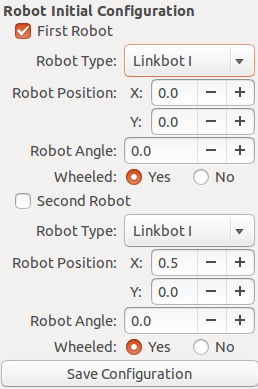
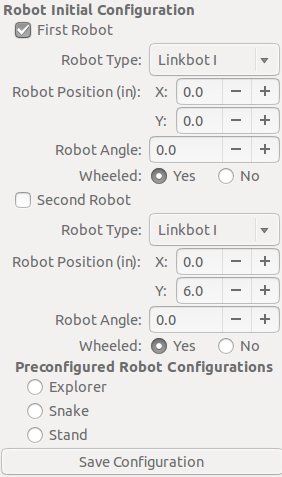
updated docs pdf

Changed region(s): [[0.0, 0.0, 1.0, 1.0]]

diff --git a/docs/robosim.tex b/docs/robosim.tex
@@ -29,16 +29,16 @@
 
 \section{Introduction}
 \texttt{RoboSim} is designed to test programs written to control Barobo Mobot
-and Linkbot modules within a simulated environment.  It has been designed to allow
-any Ch code which can control hardware Barobo robots to now control them from
-within a simulated environment making zero changes the code.  The RoboSim GUI allows
-users to change between hardware and simulated robots and position the robots
-in their initial position for simulation.
+and Linkbot modules within a simulated environment.  It has been designed to
+allow any Ch code which can control hardware Barobo robots to now control them
+from within a simulated environment making zero changes to the code.  The
+RoboSim GUI allows users to change between hardware and simulated robots and
+position the robots in their initial position for simulation.
 
 \section{RoboSim GUI}
 \label{sec:gui}
-The RoboSim gui, shown in Figure \ref{fig:gui}, allows users to configure their computer to run simulated robots
-in place of the hardware ones.
+The RoboSim GUI, shown in Figure \ref{fig:gui}, allows users to configure their
+computer to run simulated robots in place of the hardware ones.
 
 \begin{figure}[H]
 	\begin{center}
@@ -49,7 +49,8 @@ in place of the hardware ones.
 \end{figure}
 
 \subsection{Platform}
-This lets a user pick whether the output is sent to the hardware or simulated robots.
+This lets a user pick whether the output is sent to the hardware or simulated
+robots.
 \begin{figure}[H]
 	\begin{center}
 		\includegraphics[width=3in]{images/platform}
@@ -59,10 +60,11 @@ This lets a user pick whether the output is sent to the hardware or simulated ro
 \end{figure}
 
 \subsection{Robot Initial Configuration}
-To position the robots within the simulation, the user can select a few options which allow
-one or two robots to be positioned within the simulated scene.  The options presented provide
-the capability of many simple configurations to be tested.  For each of the robots within the scene,
-there are five options each of which are outlined below.
+To position the robots within the simulation, the user can select a few options
+which allow one or two robots to be positioned within the simulated scene.  The
+options presented provide the capability of many simple configurations to be
+tested.  For each of the robots within the scene, there are five options each of
+which are outlined below.
 \begin{figure}[H]
 	\begin{center}
 		\includegraphics[height=4in]{images/configuration}
@@ -75,9 +77,10 @@ Images for the Mobot and Linkbot showing the meaning of each of the options is
 shown to the right of the configuration dialog.
 
 \subsubsection{Robot Type}
-There are four options for robot type available.  Linkbot-I, Linkbot-L, Linkbot-T, and Mobot.
-The options are presented in a drop down menu as shown in Figure \ref{fig:type}.  Linkbot-T is
-a linkbot module with all three joints capable of rotating.
+There are four options for robot type available.  Linkbot-I, Linkbot-L,
+Linkbot-T, and Mobot.  The options are presented in a drop down menu as shown in
+Figure \ref{fig:type}.  Linkbot-T is a linkbot module with all three joints
+capable of rotating.
 
 \begin{figure}[H]
 	\begin{center}
@@ -91,33 +94,43 @@ a linkbot module with all three joints capable of rotating.
 Both x and y positions can be chosen independently for each robot.
 
 \subsubsection{Robot Angle}
-The rotation angle from the x-axis can be used for changing the orientation of the two robots
-respective to each other. 
+The rotation angle from the x-axis can be used for changing the orientation of
+the two robots respective to each other. 
 
 \subsubsection{Wheels}
-Since so many times the robots are run with wheels and a caster connected, a radio button is provided
-to build the robots with or without wheels.
+Since so many times the robots are run with wheels and a caster connected, a
+radio button is provided to build the robots with or without wheels.
 
 \subsubsection{Saving}
-The last step is to save the configuration so that Ch can load the information when running any
-of the Ch codes.
+The last step is to save the configuration so that Ch can load the information
+when running any of the Ch codes.
+
+\subsection{Preconfigured Robot Configurations}
+In addition to positioning two robots independently within the scene, three
+preconfigured options are available to users which represent common Linkbot
+configurations.
 
 \section{Running a Simulation}
-Once the simulation environment has been configured with the RoboSim GUI in Section \ref{sec:gui}, users
-can now run code witten to control the hardware Barobo robots within simulation.  The graphics for
-each simulation are created upon running the code.
+Once the simulation environment has been configured with the RoboSim GUI in
+Section \ref{sec:gui}, users can now run code witten to control the hardware
+Barobo robots within simulation.  The RoboSim GUI should remain open while
+simulating robots, once it is closed, it will revert to hardware mode.  The
+graphics for each simulation are created upon running the code.
 
 \section{Interacting with a Simulation}
-The simulation window responds to mouse inputs to allow users to move about the scene.
-The mouse wheel or right mouse button allows zooming in and out from the robots.  Holding the 
-left button rotates the camera about the viewpoint.  Clicking, holding, and dragging both mouse
-buttons pans around the scene to change the camera location.
+The simulation window responds to mouse inputs to allow users to move about the
+scene.  The mouse wheel or right mouse button allows zooming in and out from the
+robots.  Holding the left button rotates the camera about the viewpoint.
+Clicking, holding, and dragging both mouse buttons pans around the scene to
+change the camera location.
 
-The ground plane is for reference only.  It is designed to disappear when viewing the robots
-from below to be able to inspect the movement from all angles.
+The ground plane is for reference only.  It is designed to disappear when
+viewing the robots from below to be able to inspect the movement from all
+angles.
 
 \subsection{Keyboard Input}
-The simulation will respond to keyboad input as outlined in Table \ref{tab:keys}.
+The simulation will respond to keyboad input as outlined in Table
+\ref{tab:keys}.
 
 \begin{table}[H]
 	\begin{center}
@@ -136,9 +149,10 @@ The simulation will respond to keyboad input as outlined in Table \ref{tab:keys}
 \appendix
 \section{Manual Config File Generation}
 \subsection{Robot Attributes}
-Each robot element is required to have one attribute titled \textbf{id} which is an unique identifier for the
-simulation to reference.  A second optional attribute is \textbf{orientation} which orients the face of a
-second robot when it is being attached to a first robot.
+Each robot element is required to have one attribute titled \textbf{id} which is
+an unique identifier for the simulation to reference.  A second optional
+attribute is \textbf{orientation} which orients the face of a second robot when
+it is being attached to a first robot.
 
 \begin{table}[H]
 	\begin{center}
